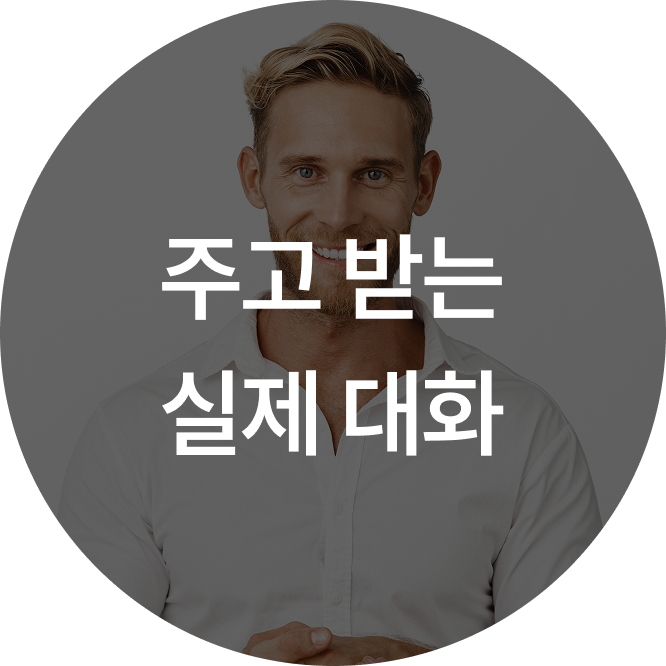
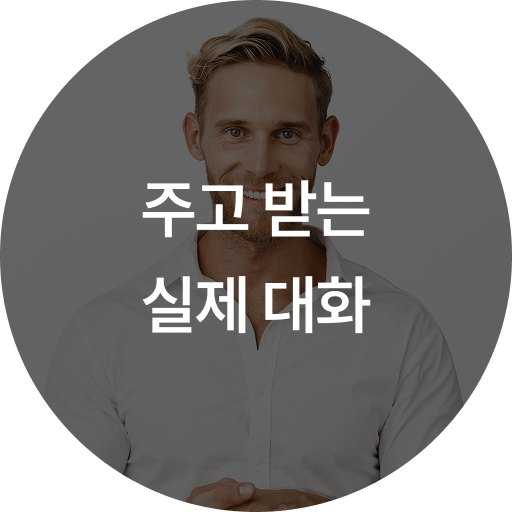
scale update 3/18

Changed region(s): [[0.25, 0.5312, 0.75, 0.6875], [0.2188, 0.3438, 0.75, 0.5]]

diff --git a/css/style.css b/css/style.css
@@ -117,7 +117,7 @@ input {
   justify-content: center;
   align-items: center;
   gap: 32px;
-  margin-top: 80px;
+  margin-top: 60px;
 }
 
 h1 {
@@ -1415,7 +1415,7 @@ footer.junior .info {
 }
 .section-12 {
   text-align: center;
-  padding: 160px 0;
+  padding: 120px 0;
 }
 @media screen and (min-width: 1023px) {
   .section-12.section-12-smalFont h1 {
@@ -1429,7 +1429,7 @@ footer.junior .info {
   }
 }
 .section-12 .inner {
-  max-width: 1127px;
+  max-width: 952px;
 }
 .section-12 h1 {
   background: linear-gradient(90deg, #00E5FF 0%, #1A6AFF 100%);
@@ -1437,7 +1437,7 @@ footer.junior .info {
   -webkit-background-clip: text;
   -webkit-text-fill-color: transparent;
   display: inline-block;
-  margin-bottom: 24px;
+  margin-bottom: 40px;
 }
 .section-12 .black {
   color: #111;
@@ -1449,7 +1449,7 @@ footer.junior .info {
   margin-top: 120px;
 }
 .section-12 h5 {
-  margin-bottom: 80px;
+  margin-bottom: 60px;
   font-weight: 400;
 }
 .section-12 h5 .highlight {
@@ -1463,7 +1463,7 @@ footer.junior .info {
   font-weight: 700;
 }
 .section-12 h5.mb-40 {
-  margin-bottom: 40px;
+  margin-bottom: 20px;
 }
 .section-12 .maxImg {
   width: 100%;
@@ -1525,7 +1525,7 @@ footer.junior .info {
   width: 100%;
 }
 .section-12 .tesolImg {
-  margin: 40px 0;
+  margin: 20px 0;
   max-width: 580px;
   width: 100%;
 }
@@ -2017,7 +2017,11 @@ footer.junior .info {
   text-align: center;
   background: linear-gradient(109deg, #262626 17.95%, #484848 50.11%, #000 84.19%);
 }
+.section-13 .inner {
+  max-width: 1236px;
+}
 .section-13 h4 {
+  font-size: 32px;
   color: #FFF;
   font-weight: 500;
   display: block;
@@ -2035,8 +2039,8 @@ footer.junior .info {
   background-clip: text;
   -webkit-background-clip: text;
   -webkit-text-fill-color: transparent;
-  font-size: 120px;
-  margin-bottom: 32px;
+  font-size: 100px;
+  margin-bottom: 20px;
 }
 .section-13 h5 {
   color: #FFF;
@@ -2044,7 +2048,7 @@ footer.junior .info {
 }
 .section-13 img {
   width: 100%;
-  margin: -30px 0 -20px;
+  margin: 0 0 -20px;
 }
 
 @media screen and (max-width: 1024px) {
@@ -2091,16 +2095,19 @@ footer.junior .info {
   }
 }
 .section-14 {
-  padding: 160px 0;
+  padding: 120px 0;
   text-align: center;
 }
 .section-14 .inner {
-  max-width: 1332px;
+  max-width: 924px;
+}
+.section-14 h2 {
+  font-size: 48px;
 }
 .section-14 h5 {
   font-weight: 500;
-  margin-top: 24px;
-  margin-bottom: 80px;
+  margin-top: 20px;
+  margin-bottom: 60px;
 }
 .section-14 img {
   width: 100%;
@@ -2148,19 +2155,21 @@ footer.junior .info {
   }
 }
 .section-15 {
-  padding: 160px 0 125px;
+  padding: 160px 0;
   background: linear-gradient(109deg, #262626 17.95%, #484848 50.11%, #000 84.19%);
   color: #fff;
 }
 .section-15 h3 {
   color: #FFF;
   font-weight: 600;
+  font-size: 32px;
 }
 .section-15 h4 {
-  margin-top: 120px;
+  margin-top: 100px;
   color: #FFF;
   font-weight: 400;
   text-align: center;
+  font-size: 40px;
 }
 .section-15 h4 b {
   font-weight: 600;
@@ -2169,7 +2178,7 @@ footer.junior .info {
   margin-bottom: 24px;
 }
 .section-15 .inner {
-  max-width: 992px;
+  max-width: 813px;
 }
 .section-15 .enter {
   display: block;
@@ -2184,10 +2193,10 @@ footer.junior .info {
   flex-direction: row-reverse;
 }
 .section-15 img {
-  max-width: 400px;
+  max-width: 300px;
 }
 .section-15 .btnWrap {
-  margin-top: 60px;
+  margin-top: 80px;
 }
 
 @media screen and (max-width: 1024px) {

diff --git a/css/style.scss b/css/style.scss
@@ -159,7 +159,7 @@ $fs10: 2.778vw; /* 10px */
 	justify-content: center;
 	align-items: center;
 	gap: 32px;
-	margin-top: 80px;
+	margin-top: 60px;
 }
 
 
@@ -1587,7 +1587,7 @@ footer {
 }
 .section-12 {
 	text-align: center;
-	padding: 160px 0;
+	padding: 120px 0;
 	@media screen and (min-width:1023px) {
 		&.section-12-smalFont {
 			h1 {
@@ -1602,11 +1602,12 @@ footer {
 		}
 	}
 	.inner {
-		max-width: 1127px;
+		max-width: 952px;
 	}
 	h1 {
 		@include textGra();
-		margin-bottom: 24px;
+		// margin-bottom: 20px;
+		margin-bottom: 40px;
 	}
 	.black {
 		color: #111;
@@ -1618,7 +1619,7 @@ footer {
 		margin-top: 120px;
 	}
 	h5 {
-		margin-bottom: 80px;
+		margin-bottom: 60px;
 		font-weight: 400;
 		.highlight {
 			color: #fff;
@@ -1631,7 +1632,8 @@ footer {
 			font-weight: 700;
 		}
 		&.mb-40 {
-			margin-bottom: 40px;
+			// margin-bottom: 40px;
+			margin-bottom: 20px;
 		}
 	}
 	.maxImg {
@@ -1688,7 +1690,7 @@ footer {
 		}
 	}
 	.tesolImg {
-		margin: 40px 0;
+		margin: 20px 0;
 		max-width: 580px;
 		width: 100%;
 	}
@@ -2153,7 +2155,11 @@ footer {
 	padding: 150px 0;
 	text-align: center;
 	background: linear-gradient(109deg, #262626 17.95%, #484848 50.11%, #000 84.19%);
+	.inner {
+		max-width: 1152 + 84px;
+	}
 	h4 {
+		font-size: 32px;
 		color: #FFF;
 		font-weight: 500;
 		display: block;
@@ -2167,8 +2173,8 @@ footer {
 		background-clip: text;
 		-webkit-background-clip: text;
 		-webkit-text-fill-color: transparent;
-		font-size: 120px;
-		margin-bottom: 32px;
+		font-size: 100px;
+		margin-bottom: 20px;
 	}
 	h5 {
 		color: #FFF;
@@ -2176,7 +2182,7 @@ footer {
 	}
 	img {
 		width: 100%;
-		margin: -30px 0 -20px;
+		margin: 0 0 -20px;
 	}
 }
 @media screen and (max-width:1024px) {
@@ -2212,15 +2218,19 @@ footer {
 	}
 }
 .section-14 {
-	padding: 160px 0;
+	padding: 120px 0;
 	text-align: center;
 	.inner {
-		max-width: 1332px;
+		// max-width: 1332px;
+		max-width: 840 + 84px;
+	}
+	h2 {
+		font-size: 48px;
 	}
 	h5 {
 		font-weight: 500;
-		margin-top: 24px;
-		margin-bottom: 80px;
+		margin-top: 20px;
+		margin-bottom: 60px;
 	}
 	img {
 		width: 100%;
@@ -2257,18 +2267,20 @@ footer {
 }
 
 .section-15 {
-	padding: 160px 0 125px;
+	padding: 160px 0;
 	background: linear-gradient(109deg, #262626 17.95%, #484848 50.11%, #000 84.19%);
 	color: #fff;
 	h3 {
 		color: #FFF;
 		font-weight: 600;
+		font-size: 32px;
 	}
 	h4 {
-		margin-top: 120px;
+		margin-top: 100px;
 		color: #FFF;
 		font-weight: 400;
 		text-align: center;
+		font-size: 40px;
 		b {
 			font-weight: 600;
 		}
@@ -2277,7 +2289,8 @@ footer {
 		margin-bottom: 24px;
 	}
 	.inner {
-		max-width: 992px;
+		// max-width: 992px;
+		max-width: 729 + 84px;
 	}
 	.enter {
 		display: block;
@@ -2292,10 +2305,10 @@ footer {
 		flex-direction: row-reverse;
 	}
 	img {
-		max-width: 400px;
+		max-width: 300px;
 	}
 	.btnWrap {
-		margin-top: 60px;
+		margin-top: 80px;
 	}
 }
 @media screen and (max-width:1024px) {

diff --git a/page3.html b/page3.html
@@ -147,7 +147,7 @@
     <div class="section-12">
         <div class="inner">
             <div class="d-pc">
-                <h1 style="font-size: 56px;">왜 TESOL 강사와 영어를 공부해야 할까요?</h1>
+                <h1>왜 TESOL 강사와 영어를 공부해야 할까요?</h1>
             </div>
             <div class="d-mo">
                 <h1>왜 TESOL 강사와<br/>
